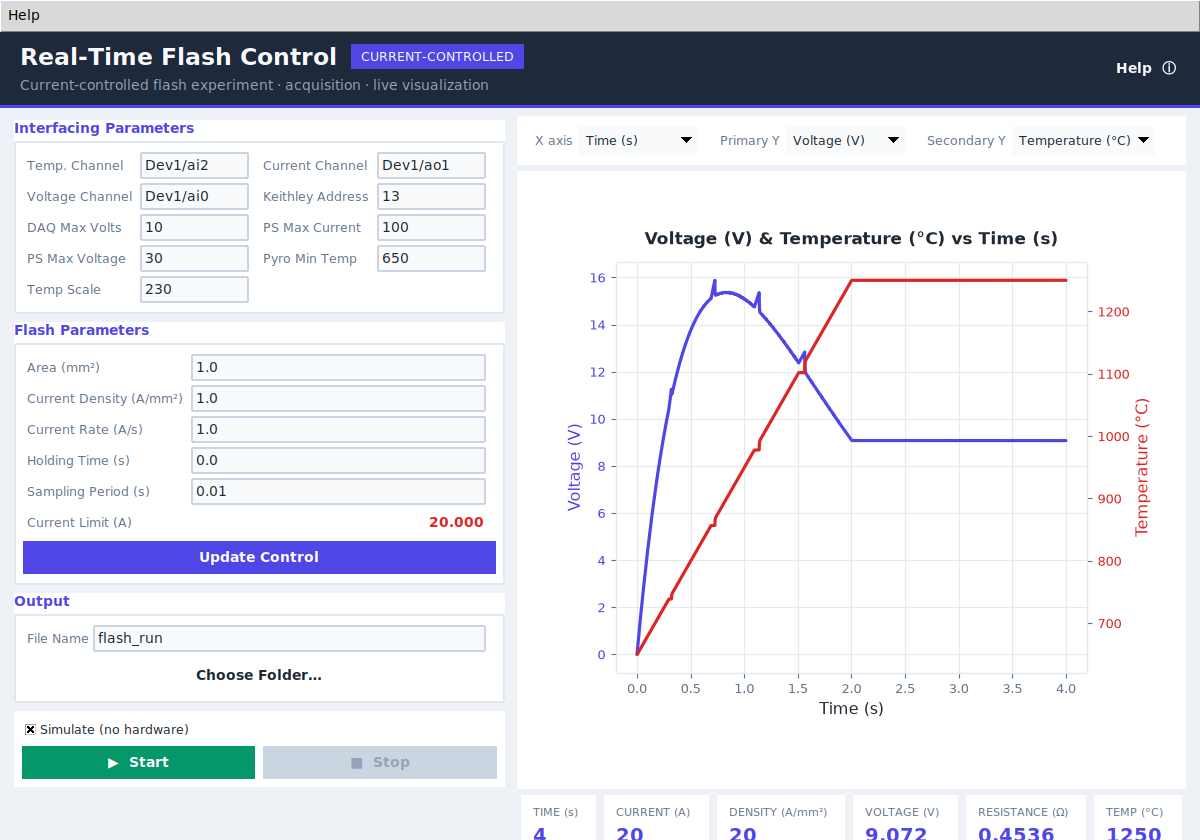
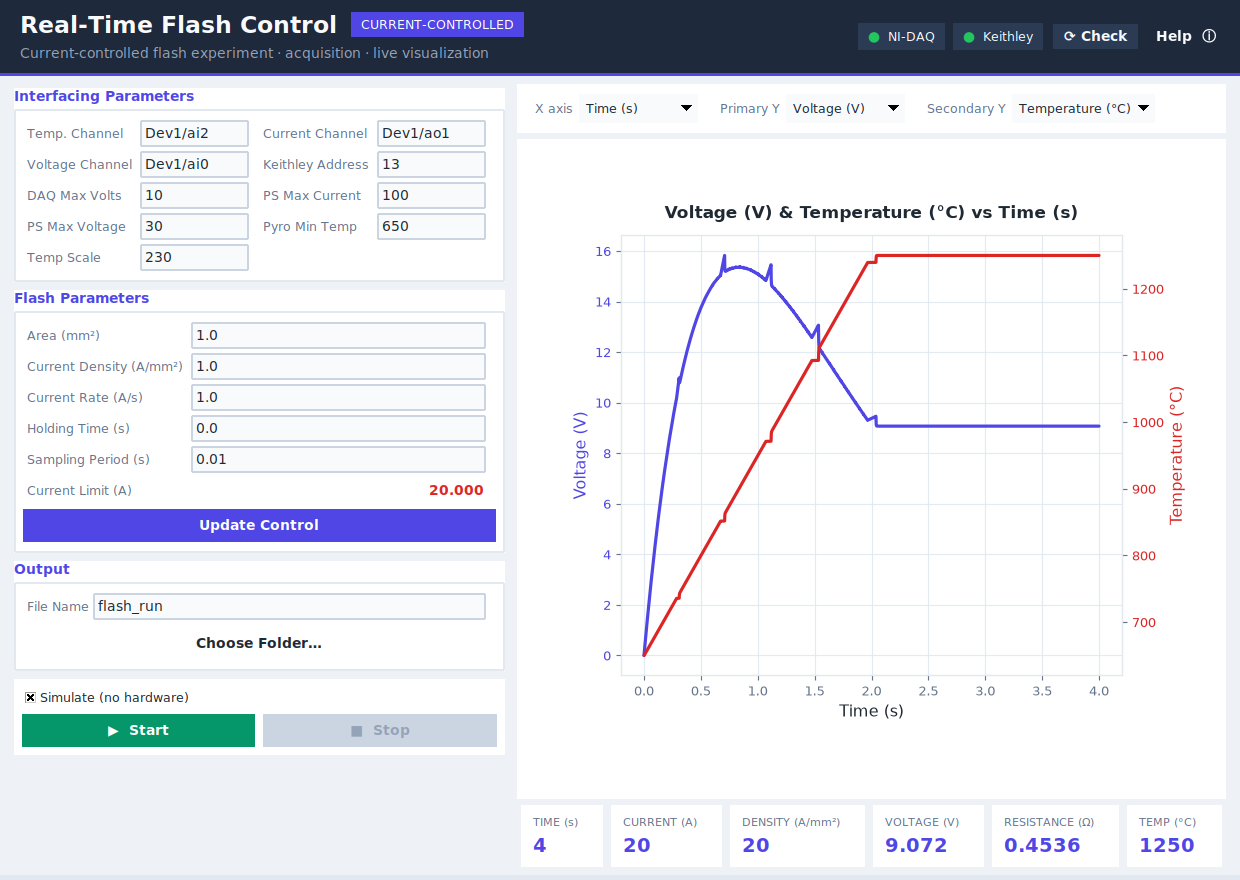
Add hardware-readiness check with header connection indicators
Let the app confirm the NI-DAQ and Keithley are connected before a run.

- Instruments.probe() returns per-instrument InstrumentStatus; the real backend
  lists NI-DAQ devices (verifying the configured device) and queries the
  Keithley *IDN? identity, while the simulator reports ready instantly.
- Header shows live connection chips (NI-DAQ / Keithley) with green/red dots and
  a "Check" action; the probe runs off the UI thread and full detail (device
  list / identity / error) is shown in the status bar.
- Starting a real run without a successful check prompts for confirmation.
- Tests cover the simulated probe; README documents the readiness check and
  how to test; GUI preview refreshed.

Claude-Session: https://claude.ai/code/session_01HF5txB37iULZarnNNahcpD

diff --git a/flashcontrol/gui/app.py b/flashcontrol/gui/app.py
@@ -19,15 +19,19 @@ Key differences from the original single-file GUI:
 from __future__ import annotations
 
 import queue
+import threading
 import tkinter as tk
 from tkinter import filedialog, messagebox, ttk
 
 from ..config import ConfigError, ExperimentConfig, HardwareConfig
 from ..core.runner import ExperimentRunner, RunResult
-from ..hardware import make_instruments
+from ..hardware import InstrumentStatus, make_instruments
 from .help import show_help
 from .plot import LivePlot, X_OPTIONS, Y_OPTIONS
 from .theme import apply_theme
+
+# Instruments shown in the hardware-status panel, in display order.
+_INSTRUMENT_NAMES = ("NI-DAQ", "Keithley DMM")
 
 # Default field values (label -> default), grouped by panel.
 _HARDWARE_FIELDS = [
@@ -64,8 +68,8 @@ class FlashControlApp:
     def __init__(self, root: tk.Tk) -> None:
         self.root = root
         self.root.title("Real-Time Flash Control — Current-Controlled")
-        self.root.geometry("1200x840")
-        self.root.minsize(1080, 800)
+        self.root.geometry("1240x880")
+        self.root.minsize(1120, 820)
         self.theme = apply_theme(root)
         self.p = self.theme.palette
         self._build_menubar()
@@ -74,7 +78,13 @@ class FlashControlApp:
         self.readouts: dict[str, tk.StringVar] = {}
         self._output_dir = ""
         self._queue: "queue.Queue" = queue.Queue()
+        self._status_q: "queue.Queue" = queue.Queue()
         self._handle = None
+
+        # Hardware-readiness state.
+        self._dots: dict[str, tk.Label] = {}
+        self._hardware_ready = False
+        self._checking = False
 
         self.simulate_var = tk.BooleanVar(value=True)
         self.file_name_var = tk.StringVar(value="flash_run")
@@ -145,11 +155,39 @@ class FlashControlApp:
 
         # Clickable Help link on the right of the header.
         link = ttk.Label(header, text="Help  ⓘ", style="HeaderLink.TLabel", cursor="hand2")
-        link.pack(side=tk.RIGHT, padx=(0, 4))
+        link.pack(side=tk.RIGHT, padx=(16, 4))
         link.bind("<Button-1>", lambda _e: self._show_help())
+
+        # At-a-glance hardware connection indicators + a Check action.
+        self._build_connection_indicators(header)
 
         # thin accent underline for a premium finish
         tk.Frame(self.root, background=self.p["accent"], height=3).pack(side=tk.TOP, fill=tk.X)
+
+    def _build_connection_indicators(self, header) -> None:
+        chip = self.p["header_chip"]
+        strip = ttk.Frame(header, style="Header.TFrame")
+        strip.pack(side=tk.RIGHT)
+        for name, short in zip(_INSTRUMENT_NAMES, ("NI-DAQ", "Keithley")):
+            cell = tk.Frame(strip, background=chip)
+            cell.pack(side=tk.LEFT, padx=(0, 8))
+            dot = tk.Label(
+                cell, text="●", background=chip,
+                foreground=self.p["disabled"], font=self.theme.body,
+            )
+            dot.pack(side=tk.LEFT, padx=(8, 4), pady=3)
+            tk.Label(
+                cell, text=short, background=chip, foreground=self.p["header_fg"],
+                font=self.theme.label,
+            ).pack(side=tk.LEFT, padx=(0, 8))
+            self._dots[name] = dot
+
+        self.check_link = tk.Label(
+            strip, text="⟳ Check", background=chip, foreground=self.p["header_fg"],
+            font=self.theme.heading, cursor="hand2", padx=10, pady=3,
+        )
+        self.check_link.pack(side=tk.LEFT, padx=(2, 0))
+        self.check_link.bind("<Button-1>", lambda _e: self._check_hardware())
 
     def _card(self, parent, title) -> ttk.LabelFrame:
         frame = ttk.LabelFrame(parent, text=title, style="Card.TLabelframe")
@@ -200,11 +238,74 @@ class FlashControlApp:
         )
         self.folder_btn.grid(row=1, column=0, columnspan=2, sticky=tk.EW, pady=(5, 2))
 
+    def _check_hardware(self) -> None:
+        if self._checking:
+            return
+        try:
+            hardware = self._build_hardware()
+        except (ConfigError, ValueError) as exc:
+            messagebox.showerror("Invalid settings", str(exc))
+            return
+        simulate = self.simulate_var.get()
+        self._checking = True
+        self.check_link.config(text="⟳ Checking…")
+        self.status_var.set("Checking hardware connection…")
+
+        def work() -> None:
+            try:
+                results = make_instruments(hardware, simulate=simulate).probe()
+            except Exception as exc:  # noqa: BLE001 - surfaced in the status bar
+                results = [
+                    InstrumentStatus(name, False, f"{type(exc).__name__}: {exc}")
+                    for name in _INSTRUMENT_NAMES
+                ]
+            self._status_q.put(results)
+
+        threading.Thread(target=work, name="hw-probe", daemon=True).start()
+        self.root.after(120, self._poll_status)
+
+    def _poll_status(self) -> None:
+        try:
+            results = self._status_q.get_nowait()
+        except queue.Empty:
+            self.root.after(120, self._poll_status)
+            return
+        self._apply_status(results)
+        self._checking = False
+        self.check_link.config(text="⟳ Check")
+
+    def _apply_status(self, results) -> None:
+        """Update the header dots and report full probe detail in the status bar."""
+        by_name = {r.name: r for r in results}
+        all_ok = True
+        parts = []
+        for name in _INSTRUMENT_NAMES:
+            status = by_name.get(name)
+            ok = bool(status and status.ok)
+            self._dots[name].config(
+                foreground=self.p["ok_bright"] if ok else self.p["bad_bright"]
+            )
+            detail = status.detail if status else "no response"
+            parts.append(f"{name}: {'OK' if ok else 'FAIL'} — {detail}")
+            all_ok = all_ok and ok
+        self._hardware_ready = all_ok
+        prefix = "✓ Hardware ready." if all_ok else "✗ Hardware not ready."
+        self.status_var.set(prefix + "   " + "   ·   ".join(parts))
+
+    def _on_simulate_toggle(self) -> None:
+        # Readiness depends on the backend, so invalidate the last check.
+        self._hardware_ready = False
+        for name in _INSTRUMENT_NAMES:
+            self._dots[name].config(foreground=self.p["disabled"])
+        backend = "simulator" if self.simulate_var.get() else "real hardware"
+        self.status_var.set(f"Backend set to {backend}. Click ⟳ Check to verify readiness.")
+
     def _build_run_controls(self, parent) -> None:
         frame = ttk.Frame(parent, style="Card.TFrame", padding=8)
         frame.pack(fill=tk.X, pady=4)
         ttk.Checkbutton(
-            frame, text="Simulate (no hardware)", variable=self.simulate_var
+            frame, text="Simulate (no hardware)", variable=self.simulate_var,
+            command=self._on_simulate_toggle,
         ).pack(anchor=tk.W, pady=(0, 6))
         btns = ttk.Frame(frame, style="Card.TFrame")
         btns.pack(fill=tk.X)
@@ -299,6 +400,14 @@ class FlashControlApp:
             self.status_var.set(f"Error: {exc}")
 
     def _start(self) -> None:
+        # For a real run, nudge the user to confirm the rig is connected.
+        if not self.simulate_var.get() and not self._hardware_ready:
+            if not messagebox.askyesno(
+                "Hardware not verified",
+                "The NI-DAQ and Keithley have not been confirmed as connected.\n\n"
+                "Run “Check Connection” first, or start anyway?",
+            ):
+                return
         try:
             hw = self._build_hardware()
             exp = self._build_experiment()

diff --git a/flashcontrol/hardware/nidaq.py b/flashcontrol/hardware/nidaq.py
@@ -11,8 +11,10 @@ Keithley VISA session is held open for the duration of the run.
 
 from __future__ import annotations
 
+from typing import List
+
 from ..config import HardwareConfig
-from .base import Instruments
+from .base import Instruments, InstrumentStatus
 
 
 class NiDaqInstruments(Instruments):
@@ -82,3 +84,42 @@ class NiDaqInstruments(Instruments):
         if self._multimeter is None:
             raise RuntimeError("Keithley session is not open; call open() first.")
         return abs(float(self._multimeter.query(":SENSE:DATA:FRESh?")))
+
+    # -- readiness probe --------------------------------------------------
+    def probe(self) -> List[InstrumentStatus]:
+        """Detect the DAQ device and query the Keithley identity (no run needed)."""
+        results: List[InstrumentStatus] = []
+
+        # NI-DAQ: confirm the configured device is present in the system.
+        try:
+            system = self._nidaqmx.system.System.local()
+            devices = [d.name for d in system.devices]
+            want = self.hw.current_channel.split("/")[0]  # e.g. "Dev1"
+            present = ", ".join(devices) if devices else "none"
+            if want in devices:
+                results.append(
+                    InstrumentStatus("NI-DAQ", True, f"'{want}' connected (devices: {present})")
+                )
+            else:
+                results.append(
+                    InstrumentStatus(
+                        "NI-DAQ", False, f"'{want}' not found (devices present: {present})"
+                    )
+                )
+        except Exception as exc:  # driver missing / DAQ subsystem error
+            results.append(InstrumentStatus("NI-DAQ", False, f"{type(exc).__name__}: {exc}"))
+
+        # Keithley: open the VISA session and ask for its identity.
+        try:
+            rm = self._pyvisa.ResourceManager()
+            address = f"GPIB0::{self.hw.keithley_address}::INSTR"
+            inst = rm.open_resource(address)
+            try:
+                idn = str(inst.query("*IDN?")).strip()
+            finally:
+                inst.close()
+            results.append(InstrumentStatus("Keithley DMM", True, idn or f"Responding at {address}"))
+        except Exception as exc:
+            results.append(InstrumentStatus("Keithley DMM", False, f"{type(exc).__name__}: {exc}"))
+
+        return results

diff --git a/flashcontrol/hardware/base.py b/flashcontrol/hardware/base.py
@@ -12,6 +12,22 @@ and stays testable.
 from __future__ import annotations
 
 from abc import ABC, abstractmethod
+from dataclasses import dataclass
+from typing import List
+
+
+@dataclass
+class InstrumentStatus:
+    """Result of probing one instrument for readiness.
+
+    ``name``   - human label, e.g. "NI-DAQ" or "Keithley DMM".
+    ``ok``     - True if the instrument is present and responding.
+    ``detail`` - device list / identity string, or the error if not ok.
+    """
+
+    name: str
+    ok: bool
+    detail: str
 
 
 class Instruments(ABC):
@@ -44,6 +60,14 @@ class Instruments(ABC):
     @abstractmethod
     def read_raw_temperature(self) -> float:
         """Read the raw pyrometer signal (convert via ``HardwareConfig``)."""
+
+    @abstractmethod
+    def probe(self) -> List[InstrumentStatus]:
+        """Check that each instrument is connected and responding.
+
+        Does not require :meth:`open`; safe to call at any time. Returns one
+        :class:`InstrumentStatus` per instrument so the UI can show readiness.
+        """
 
     # -- convenience: usable as a context manager -------------------------
     def __enter__(self) -> "Instruments":

diff --git a/flashcontrol/gui/theme.py b/flashcontrol/gui/theme.py
@@ -19,6 +19,7 @@ PALETTE = {
     "header_bg": "#1E293B",   # dark slate header bar
     "header_fg": "#F8FAFC",
     "header_sub": "#94A3B8",
+    "header_chip": "#2B3B54",  # subtle chip behind the connection indicators
     "card_bg": "#FFFFFF",      # panels / cards
     "card_border": "#E2E8F0",
     "text": "#1F2933",
@@ -32,6 +33,8 @@ PALETTE = {
     "success_hover": "#047857",
     "danger": "#DC2626",       # red (Stop)
     "danger_hover": "#B91C1C",
+    "ok_bright": "#22C55E",    # brighter dot for the dark header
+    "bad_bright": "#F87171",
     "disabled": "#CBD5E1",
     "disabled_fg": "#94A3B8",
     "plot_line1": "#4F46E5",
@@ -221,6 +224,14 @@ def apply_theme(root: tk.Tk) -> Theme:
         foreground="#FFFFFF",
         font=theme.label,
         padding=(8, 3),
+    )
+
+    # Hardware-status detail text
+    style.configure(
+        "StatusName.TLabel", background=p["card_bg"], foreground=p["text"], font=theme.heading
+    )
+    style.configure(
+        "StatusDetail.TLabel", background=p["card_bg"], foreground=p["muted"], font=theme.readout_label
     )
 
     # Notebook (Help tabs)

diff --git a/flashcontrol/hardware/simulated.py b/flashcontrol/hardware/simulated.py
@@ -19,8 +19,10 @@ from __future__ import annotations
 
 import math
 
+from typing import List
+
 from ..config import HardwareConfig
-from .base import Instruments
+from .base import Instruments, InstrumentStatus
 
 # Model constants (tuned for plausible, not physically exact, behaviour).
 _HEATING_RATE = 1.5  # degC per second per amp of drive
@@ -84,3 +86,10 @@ class SimulatedInstruments(Instruments):
         # Inverse of HardwareConfig.raw_to_celsius so the runner recovers the
         # true temperature through the normal conversion path.
         return (self._temp_c - self.hw.pyro_min_temp) / self.hw.temp_scale
+
+    def probe(self) -> List[InstrumentStatus]:
+        # The simulator is always ready - no hardware to find.
+        return [
+            InstrumentStatus("NI-DAQ", True, "Simulated device — ready"),
+            InstrumentStatus("Keithley DMM", True, "Simulated instrument — ready"),
+        ]

diff --git a/tests/test_simulated.py b/tests/test_simulated.py
@@ -39,6 +39,14 @@ def test_reset_and_close_return_to_idle():
     assert sim.read_measured_voltage() == 0.0
 
 
+def test_probe_reports_ready():
+    statuses = SimulatedInstruments(HardwareConfig()).probe()
+    names = {s.name for s in statuses}
+    assert names == {"NI-DAQ", "Keithley DMM"}
+    assert all(s.ok for s in statuses)
+    assert all(s.detail for s in statuses)
+
+
 def test_deterministic():
     hw = HardwareConfig()
     a = SimulatedInstruments(hw)

diff --git a/flashcontrol/hardware/__init__.py b/flashcontrol/hardware/__init__.py
@@ -9,9 +9,9 @@ forces a particular backend.
 
 from __future__ import annotations
 
-from .base import Instruments
+from .base import Instruments, InstrumentStatus
 
-__all__ = ["Instruments", "make_instruments"]
+__all__ = ["Instruments", "InstrumentStatus", "make_instruments"]
 
 
 def make_instruments(hardware, *, simulate: bool) -> Instruments:

diff --git a/README.md b/README.md
@@ -52,6 +52,31 @@ compute the current limit, choose an output folder, and press **Start**.
 See **Help → Setup & Hardware Guide** in the app (or the header **Help** link)
 for setup, the equipment list, and how to cite.
 
+## Checking hardware readiness
+
+The header shows live **connection indicators** for the **NI-DAQ** and the
+**Keithley**. Click **⟳ Check** to probe them:
+
+- It lists the connected NI-DAQ devices and confirms the configured device exists.
+- It opens the GPIB/VISA session and queries the Keithley `*IDN?` identity.
+- Each dot turns **green** (connected) or **red** (not found / error), and the
+  status bar shows the full detail (device list, instrument identity, or the error).
+
+In **Simulate** mode both report ready immediately. When running on real hardware,
+if you press **Start** without a successful check, the app asks you to confirm.
+
+## Testing
+
+```bash
+pip install -e ".[dev]"     # pytest + numpy; no GUI/hardware needed
+pytest -q                   # run the unit test suite (config, runner, simulation, writer)
+
+python -m flashcontrol --simulate-headless   # end-to-end simulated run, no GUI
+```
+
+The suite runs anywhere because the core logic and simulation import no
+Tk/matplotlib/driver code. CI runs it on Python 3.9 / 3.11 / 3.12.
+
 ## Hardware & equipment
 
 The experiment is current-controlled: the DAQ commands the supply current via an
